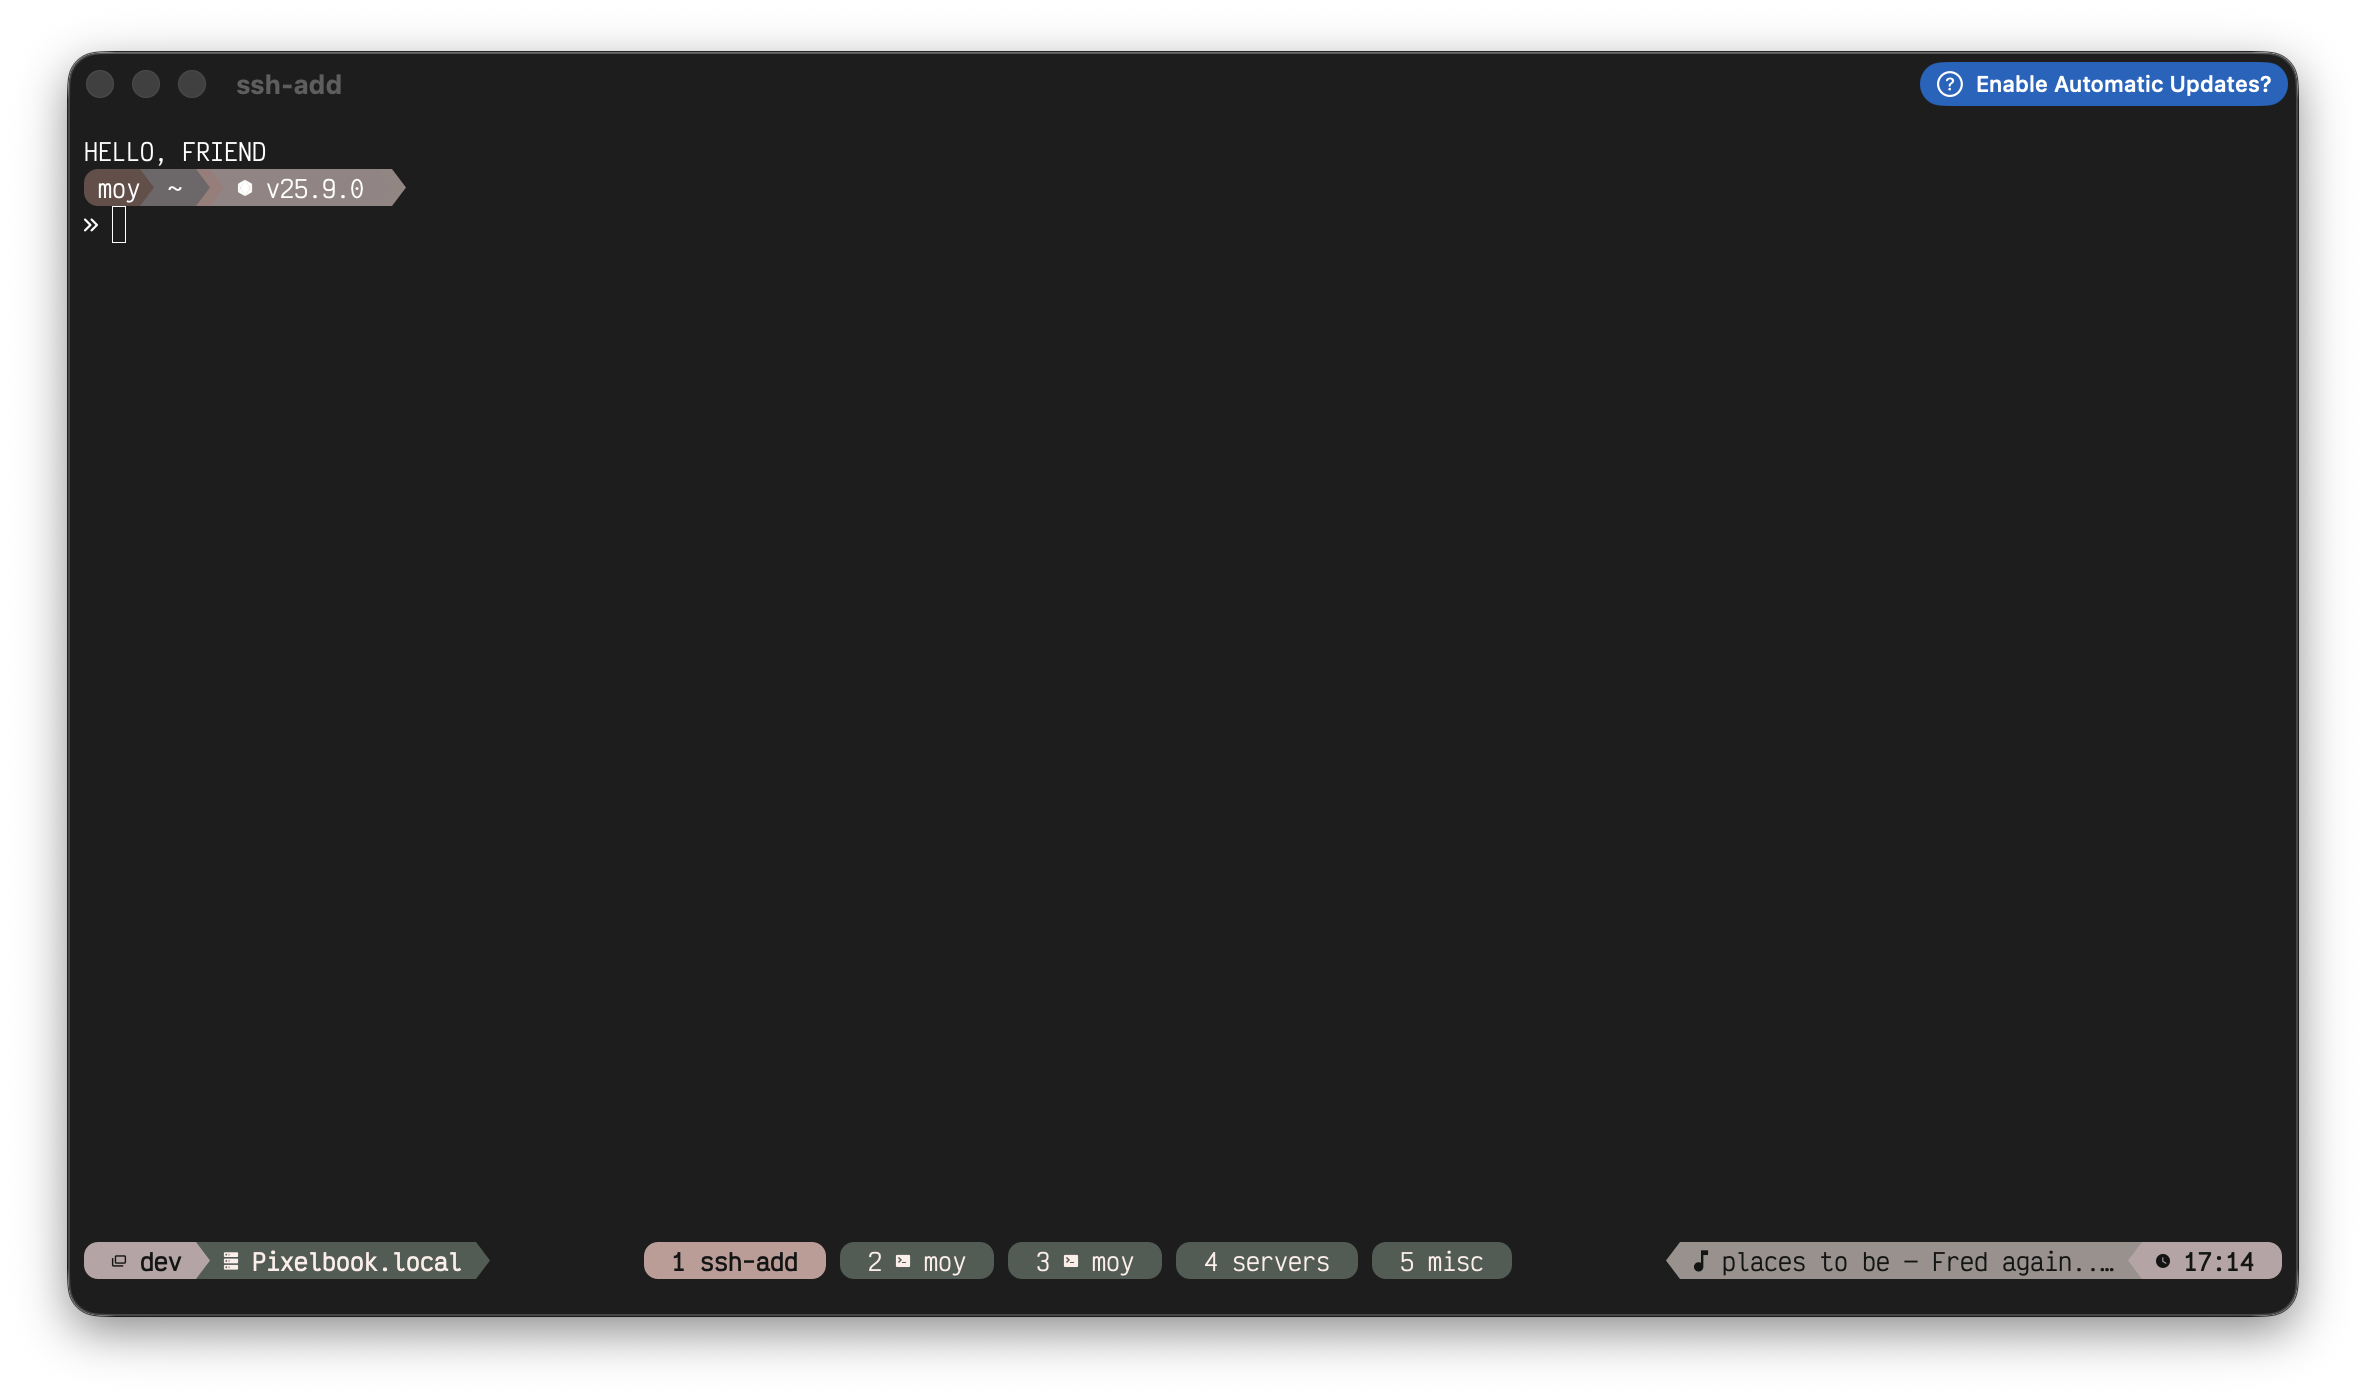
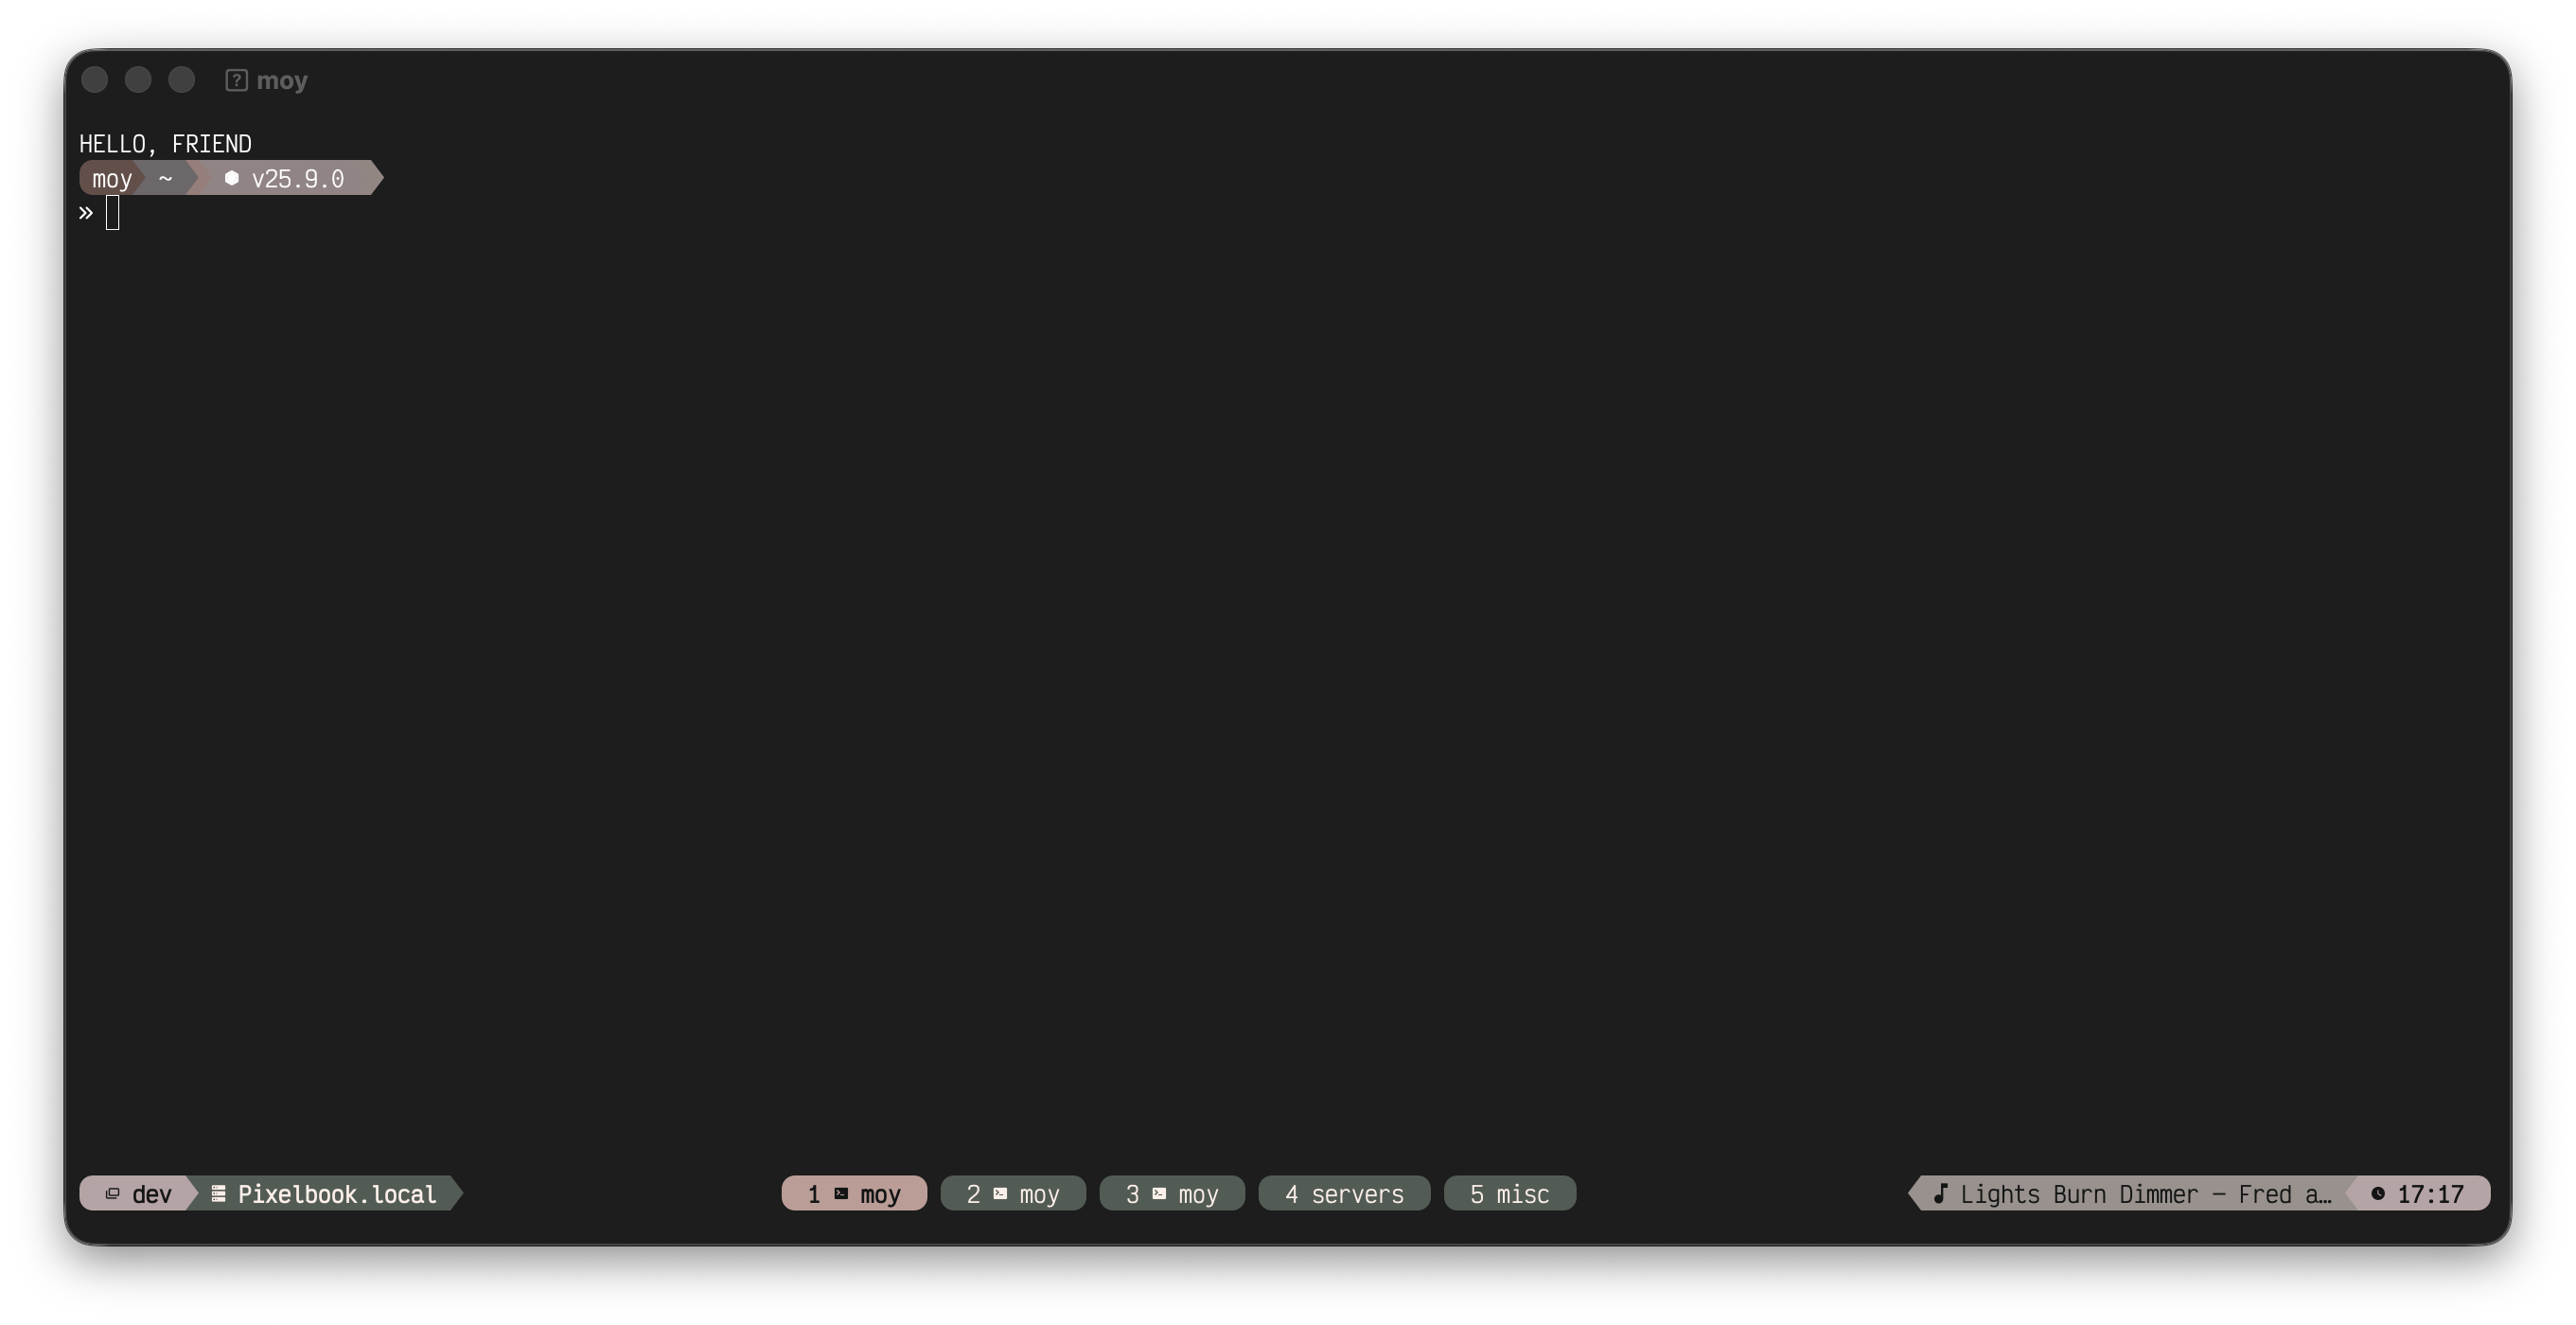
chore: update dotfiles blog post image and add repository link
This replaces the screenshot with the newer version and adds a direct link to the dotfiles GitHub repository.

Changed region(s): [[0.7096, 0.0307, 0.9873, 0.9521], [0.0, 0.0307, 0.216, 0.9214], [0.2468, 0.86, 0.6479, 0.9214]]

diff --git a/src/data/blog/redoing-dotfiles-zsh-tmux.md b/src/data/blog/redoing-dotfiles-zsh-tmux.md
@@ -22,7 +22,7 @@ ogImage: "../../assets/images/tmux-dev-session.png"
 
 For a long time, I was happily riding the Fish shell train. It was fast, the defaults were incredibly sensible, and the autosuggestions were life-changing. But recently, I found myself yearning for the raw compatibility and ecosystem that Zsh offers, especially as I integrate more advanced tooling into my workflow.
 
-Over the past week, I ripped off the band-aid and completely redid my dotfiles. The main goals? Switching back to Zsh and finally getting a Tmux setup that doesn't just work, but actively enhances my productivity—specifically when jumping between multiple "dev-sessions" and CLI-based AI agents.
+Over the past week, I ripped off the band-aid and completely redid my [dotfiles](https://github.com/AguirreMoy/dotfiles). The main goals? Switching back to Zsh and finally getting a Tmux setup that doesn't just work, but actively enhances my productivity—specifically when jumping between multiple "dev-sessions" and CLI-based AI agents.
 
 ## The Return to Zsh
 